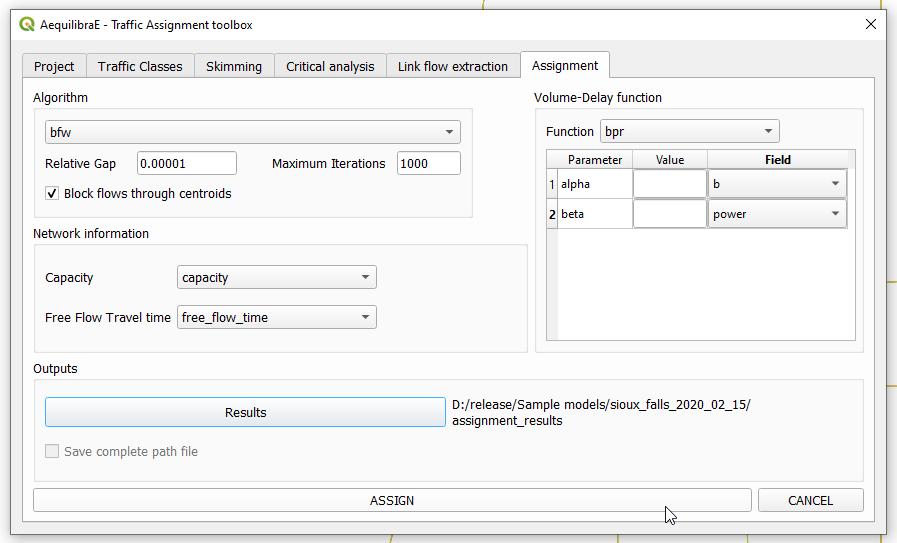
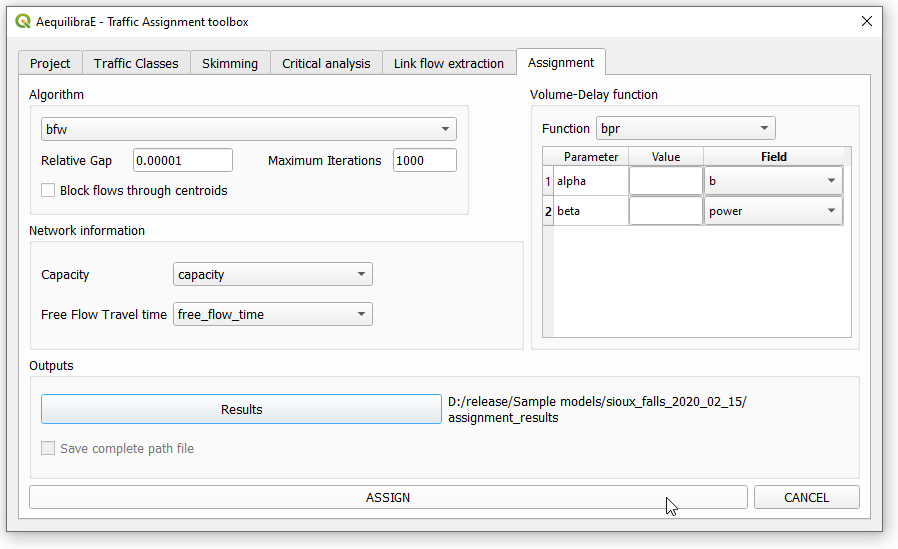
documentation

Changed region(s): [[0.0, 0.0, 1.0, 1.0]]

diff --git a/docs/source/SiouxFalls.rst b/docs/source/SiouxFalls.rst
@@ -19,14 +19,97 @@ regional model, which has nearly 40,000 links and almost 1,800 zones.
 Opening the project
 -------------------
 
+Before we do anything else, we need to open the project.
+
 .. image:: images/opening_project.png
     :width: 560
     :align: center
     :alt: Opening the project
 
 
+Individual path computation
+---------------------------
+
+The first thing we can do with this project is to compute a few arbitrary paths
+to see if the network is connected and if paths make sense.
+
+
+.. image:: images/path_computation_menu.png
+    :width: 444
+    :align: center
+    :alt: path_computation_menu
+
+Before computing a path, we go to the configuration screen
+
+.. image:: images/configure_path_computation.png
+    :width: 257
+    :align: center
+    :alt: configure_path_computation
+
+For the case of Sioux Falls, we need to configure the graph to accept paths
+going through centroids (all nodes are centroids), but that is generally not the
+case. For zones with a single connector per zone it is slightly faster to also
+deselect this option, but use this carefully.
+
+.. image:: images/path_computation_configuration.png
+    :width: 282
+    :align: center
+    :alt: path_computation_configuration
+
+If we select that paths need to be in a separate layer, than every time you
+compute a path, a new layer with a copy of the links in that path will be
+created and formatted in a noticeable way. You can also select to have links
+selected in the layer, but only one path can be shown at at time if you do so.
+
+.. image:: images/paths_generated.png
+    :width: 1696
+    :align: center
+    :alt: paths_generated
+
+Skimming
+--------
+
+We can also skim the network to look into general connectivity of the network
+
+.. image:: images/skimming_menu.png
+    :width: 507
+    :align: center
+    :alt: skimming_menu
+
+To perform skim, we can select to compute a matrix from all nodes to all nodes,
+or from centroids to centroids, as well as to not allow flows through centroids.
+
+The main controls, however, are the mode to skim, the field we should minimize
+when computing shortest paths and the fields we should skim when computing those
+paths.
+
+.. image:: images/performing_skimming.png
+    :width: 675
+    :align: center
+    :alt: performing_skimming
+
+With the results computed (AEM or OMX), one can display them on the screen.
+
+.. image:: images/display_data.png
+    :width: 485
+    :align: center
+    :alt: display_data
+
+On the matrix display screen, one can control how many decimal places are shown
+and whether decimal separators are shown. One can also browse through all the
+skims in this file by selecting the skim of choice in the drop down menu in
+the bottom left of the screen.
+
+.. image:: images/viewing_matrix.png
+    :width: 1146
+    :align: center
+    :alt: viewing_matrix
+
 Traffic assignment with skimming
 --------------------------------
+
+Having verified that the network seems to be in order, one can proceed to
+perform traffic assignment, since we have a demand matrix:
 
 .. image:: images/traffic_assignment.png
     :width: 783
@@ -84,7 +167,8 @@ Here we select the fields for:
 * BPR's *beta*
 
 We also confirm the Relative gap and maximum number of iterations we want, the
-assignment algorithm and the output folder.
+assignment algorithm and the output folder. In this case, we again choose to not
+block flows through centroids for the reason discussed above.
 
 .. image:: images/setup_assignment.png
     :width: 898
@@ -156,17 +240,6 @@ changing the project variables)
     :width: 1142
     :align: center
     :alt: bandwidth_maps
-
-
-
-
-
-
-
-
-Stacked Bandwidth
--------------------
-pass
 
 
 Scenario Comparison
